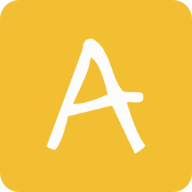
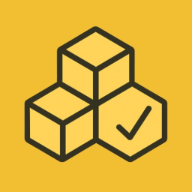
Funk

diff --git a/src/utils/firebase.utils.js b/src/utils/firebase.utils.js
@@ -21,13 +21,12 @@ import {
 } from "./../authStore"
 
 const firebaseConfig = {
-  apiKey: "AIzaSyA8OnoSYuuvozhuvkzZgEf5dPKZgm0pnSw",
-  authDomain: "box-plan.firebaseapp.com",
-  databaseURL: "https://box-plan-default-rtdb.firebaseio.com",
-  projectId: "box-plan",
-  storageBucket: "box-plan.firebasestorage.app",
-  messagingSenderId: "1083451077750",
-  appId: "1:1083451077750:web:5b1ab7bf697ae10ddd9b57"
+  apiKey: "AIzaSyDSEejefa0bd2zqfHoxzCR9c1uibj-N34o",
+  authDomain: "theachieveit.firebaseapp.com",
+  projectId: "theachieveit",
+  storageBucket: "theachieveit.firebasestorage.app",
+  messagingSenderId: "185404356382",
+  appId: "1:185404356382:web:7ec611fb61d875bc10fb0f"
 };
 
 const googleProvider = new GoogleAuthProvider();
@@ -123,23 +122,38 @@ export const getFromDatabase = async () => {
 
 export const getLastVisit = async () => {
     const user = await getUser();
-    if (!user) {
-        console.warn("Can't get from The Database, user isn't logged in.");
-        return 0
-    }
+    if (!user) return;
+
     const lastVisitRef = ref(db, `users/${user.uid}/lastVisit`);
     const lastVisit = await get(lastVisitRef);
-    console.log(lastVisit, user.uid, lastVisitRef)
-    return lastVisit * 1000 * 60 * 60 * 24;
+    console.log(lastVisit.val(), user.uid)
+    return lastVisit.val();
 }
 
 export const updateLastVisit = async () => {
-    const date = Math.floor(new Date().getTime() / 1000 / 60 / 60 / 24)
+    const date = new Date().toDateString()
     const user = await getUser();
-    if (!user) {
-        console.warn("Can't get from The Database, user isn't logged in.");
-        return
-    }
+    if (!user) return;
+
     const lastVisitRef = ref(db, `users/${user.uid}/lastVisit`);
     set(lastVisitRef, date)
+}
+
+export const isNewDay = async () => {
+    const user = await getUser();
+    if (!user) return false;
+
+    const today = new Date().toDateString()
+    const lastVisitRef = ref(db, `users/${user.uid}/lastVisit`);
+    const snapshot = await get(lastVisitRef);
+    const lastVisit = snapshot.val();
+
+    console.log("hello", lastVisit)
+
+    if (!lastVisit || lastVisit !== today) {
+        await set(lastVisitRef, today);
+        return true; 
+    }
+    
+    return false; 
 }

diff --git a/src/Components/TaskBox.jsx b/src/Components/TaskBox.jsx
@@ -11,6 +11,7 @@ import {
     deleteFromDatabase,
     getLastVisit,
     updateLastVisit,
+    isNewDay
 } from "../utils/firebase.utils";
 import {
     onAuthStateChanged
@@ -33,6 +34,7 @@ export default function TaskBox(props){
     const tasks = useData();
     const [editingState, setEditingState] = useState(false)
     const [editingTask, setEditingTask] = useState(null)
+    const [date, setDate] = useState(new Date().getDay())
 
     // useEffect(() => {
     //     tasks.forEach(task => {
@@ -55,19 +57,29 @@ export default function TaskBox(props){
         }
     }
 
-    useEffect(() => {
+    useEffect(() =>{
+        setDate(new Date().getDay())
 
+        const interval = setInterval(() =>{
+            console.log("hello")
+            setDate(new Date().getDay())
+        }, 60000)
+
+        return () => clearInterval(interval);
     }, [])
 
-    const getDay = () => {
-        return Math.floor(new Date().getTime() / 1000 / 60 / 60 / 24);
-    }
-
-    const isNewDay = async () => {
-        const lastVisit = await getLastVisit();
-        console.log(lastVisit, getDay(), lastVisit && lastVisit !== getDay())
-        return lastVisit && lastVisit !== getDay();
-    }
+    useEffect(() => {
+        const checkForNewDay = async () => {
+            const isNew = await isNewDay();
+            
+            if (isNew) {
+                console.log("It's a new day! Resetting tasks...");
+                //dailReset();
+            }
+        };
+        
+        checkForNewDay(); 
+    }, [], [date]);
 
     useEffect(() => {
         fetchTasks(props.id);
@@ -86,18 +98,12 @@ export default function TaskBox(props){
 
     useEffect(() => {
         onAuthStateChanged(auth, async (user) => {
-            if (await isNewDay()) {
-                console.log("It's a new day!");
-                updateLastVisit();
-            }
-
             if (user) {
                 const userId = user.uid;
                 const userGeneralRef = ref(db, `users/${userId}/general`);
                 const userTodayRef = ref(db, `users/${userId}/today`);
 
                 const childChange = snapshot => {
-                    console.log("gseunioj")
                     fetchTasks()
                 }
 

diff --git a/src/Components/Task.jsx b/src/Components/Task.jsx
@@ -9,7 +9,7 @@ export default function Task(props){
     const formattedTime = `${hours < 10 ? "0" + hours : hours}:${minutes < 10 ? "0" + minutes : minutes}`
     const secondsProgress = seconds > 0 ? ((seconds)/ 60) * 100 : 100;
 
-    const { hours: startHours, minutes: startMinutes } = props.secondsToTime(props.startTime);
+    const { hours: startHours, minutes: startMinutes } = props.secondsToTime(props.task.startTime);
     const formattedStartTime = `${startHours > 0 ? startHours + "h" : ("")}${startMinutes > 0 && startHours > 0 ? " " : ""}${startMinutes > 0 ? startMinutes + "min" : ("")}`;
 
     function removeRep(){
@@ -78,7 +78,7 @@ export default function Task(props){
 
                 {props.task.completed ? (
                     <div className="doneDisplay">
-                        {props.mode == "Time" && hasTime ? 
+                        {props.task.mode == "Time" && hasTime ? 
                             <p>
                                 {formattedStartTime}
                             </p>

diff --git a/public/index.html b/public/index.html
@@ -14,7 +14,11 @@
     rel="stylesheet"
     />
 
-    <title>Achieve It!</title>
+    <title>BoxPlan | Plan and organize your daily tasks!</title>
+
+    <link rel="icon" href="%PUBLIC_URL%/favicon.ico" />
+    <link rel="icon" type="image/png" sizes="32x32" href="/favicon-32x32.png">
+    <link rel="icon" type="image/png" sizes="16x16" href="/favicon-16x16.png">
 
     <!-- PWA Meta Tags -->
     <link rel="manifest" href="/manifest.json" />
@@ -24,7 +28,7 @@
     <!-- iOS Specific -->
     <meta name="apple-mobile-web-app-capable" content="yes" />
     <meta name="apple-mobile-web-app-status-bar-style" content="default" />
-    <meta name="apple-mobile-web-app-title" content="Achieve-It" />
+    <meta name="apple-mobile-web-app-title" content="BoxPlan" />
 
     <meta name="mobile-web-app-capable" content="yes">
 

diff --git a/src/Components/CreateArea.jsx b/src/Components/CreateArea.jsx
@@ -106,7 +106,19 @@ export default function CreateArea(props){
     return(
         <div className="createArea">
             {/* <p>tasks: {tasks}</p> */}
-            <input type="text" className="taskInput" onChange={(e) => setName(capitalize(e.target.value))} value={name} autoComplete="off" autoCorrect="off" />
+            <input 
+            type="text" 
+            className="taskInput" 
+            onChange={(e) => setName(capitalize(e.target.value))} 
+            value={name} 
+            autoComplete="off" 
+            autoCorrect="off" 
+            onKeyDown={(e) => {
+                if (e.key === 'Enter') {
+                    addTask();
+                }
+            }}
+            />
             
             <div className="bottomCreate">
                 <button className="modeButton">

diff --git a/src/App.jsx b/src/App.jsx
@@ -21,13 +21,13 @@ function App() {
         <div className='container'>
             <TaskBox 
                 id = {1}
-                name = "Daily Tasks"
-                infoText = "This is for tasks you have to do every day"
+                name = "Daily Box"
+                infoText = "This box is for tasks you have to do every day"
             />
             <TaskBox 
                 id = {2}
-                name = "Today's Tasks"
-                infoText = "This is for tasks that you have to do today"
+                name = "Today's Box"
+                infoText = "This box is for tasks that you have to do today"
             />
         </div>
         

diff --git a/src/App.css b/src/App.css
@@ -389,11 +389,11 @@ input::-webkit-inner-spin-button {
   box-sizing: border-box;
 }
 
-.task :nth-child(1), .task :nth-child(2) {
+.task :nth-child(1), .task :nth-child(2), .task :nth-child(3) {
   justify-self: start;
 }
 
-.task :nth-child(4), .task :nth-child(3) {
+.task :nth-child(4) {
   justify-self: end;
 }
 

diff --git a/src/Components/Header.jsx b/src/Components/Header.jsx
@@ -19,7 +19,7 @@ export default function Header(){
 
     return(
         <div className="header">
-            <h1><b>Achieve</b>-It</h1>
+            <h1>BoxPlan</h1>
         </div>
     )
 }
